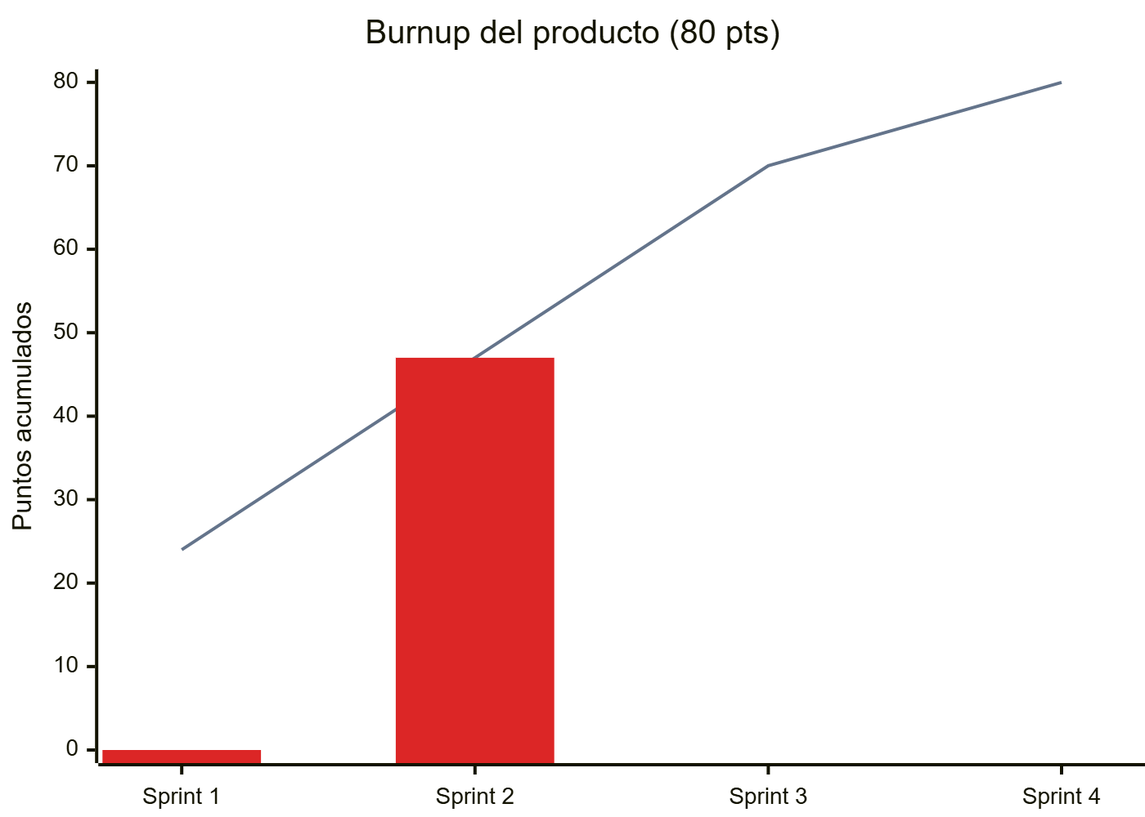
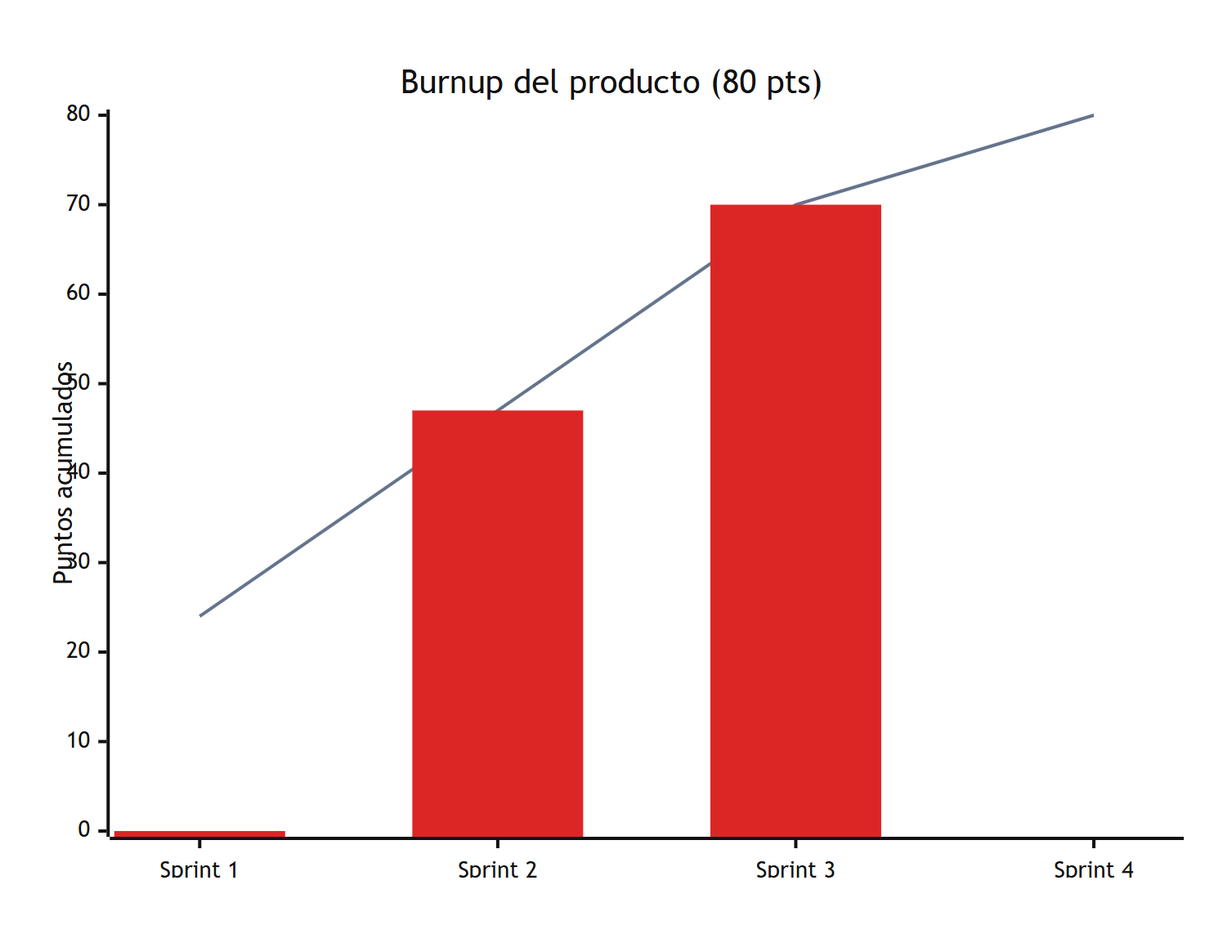
docs(scrum): cierre del Sprint 3, 23/23 pts [D-05]
Sprint review y retrospectiva (borrador) del Sprint 3, documento Scrum al
cierre, burndown del Sprint 3 y burnup con 70 pts, CHANGELOG v0.3.0 y estado
del README.

diff --git a/docs/scrum/documento-scrum.md b/docs/scrum/documento-scrum.md
@@ -1,6 +1,6 @@
 # Documentación del uso de Scrum — Abarrotes+
 
-> Sigue la estructura de la plantilla "Formato ejemplo para documentar el uso de Scrum en un proyecto" (ver `docs/07-scrum-entregables.md`). Estado al cierre del Sprint 2 (29 oct 2026). Pendiente solo la retroalimentación de la demo del 1 nov y la confirmación de la retrospectiva por el equipo.
+> Sigue la estructura de la plantilla "Formato ejemplo para documentar el uso de Scrum en un proyecto" (ver `docs/07-scrum-entregables.md`). Estado al cierre del Sprint 3 (15 nov 2026; minutas del 17 nov). Pendiente: la retroalimentación de la demo y la confirmación de la retrospectiva por el equipo.
 
 | Campo | Detalle |
 |---|---|
@@ -19,9 +19,9 @@ Este documento describe la aplicación del marco de trabajo Scrum en el desarrol
 
 ### 1.2 Alcance
 
-Abarrotes+ permite a los **cajeros** iniciar sesión, cobrar ventas (lectura de código de barras, productos a granel y pago mixto con efectivo, tarjeta o transferencia), registrar pagos a proveedores y realizar el corte y cierre de su caja; a los **administradores**, gestionar cajeros y productos de su sucursal; y al **jefe**, supervisar todas las sucursales.
+Abarrotes+ permite a los **cajeros** iniciar sesión, cobrar ventas (lectura de código de barras, productos a granel y pago mixto con efectivo, tarjeta o transferencia), registrar pagos a proveedores, registrar mermas, consultar las visitas de proveedores y realizar el corte y cierre de su caja; a los **administradores**, gestionar cajeros y productos de su sucursal, atender como cajeros con su propia caja, registrar visitas de proveedores y consultar el reporte semanal; y al **jefe**, gestionar las cuentas de administrador y supervisar todas las sucursales.
 
-El producto completo consta de 16 historias de usuario (80 puntos) distribuidas en cuatro sprints. Este documento cubre la entrega del **1 de noviembre de 2026**, que integra el Sprint 1 y el Sprint 2 (9 historias, 47 puntos). Quedan fuera de alcance la integración con básculas, terminales bancarias y la recuperación de contraseña por correo.
+El producto completo consta de 16 historias de usuario (80 puntos) distribuidas en cuatro sprints. Este documento cubre la entrega del **1 de noviembre de 2026** (`v0.2.0`), que integra el Sprint 1 y el Sprint 2 (9 historias, 47 puntos), y la del **15 de noviembre de 2026** (`v0.3.0`), del Sprint 3 (5 historias, 23 puntos). Quedan fuera de alcance la integración con básculas, terminales bancarias y la recuperación de contraseña por correo.
 
 ---
 
@@ -43,9 +43,9 @@ El equipo adopta los cinco valores de Scrum:
 
 | Persona | Rol Scrum | Responsabilidades | Dominio técnico |
 |---|---|---|---|
-| Luis David Sosa Fernández | Scrum Master + Desarrollador | Facilitar eventos, remover impedimentos, mantener artefactos (burndown, sprint backlog, documento Scrum); desarrollo | Configuración del proyecto, autenticación, cobro y pagos, cuentas de cajero, alta de productos, caja (pagos a proveedor y corte); revisa e integra todos los PR |
-| Gonzalo Mendoza Herrera | Desarrollador | Sin tareas en el Sprint 2 (baja temporal desde el 28 oct); sus historias se reasignaron | — |
-| Miguel Angel Marcelo Taracena | Desarrollador | Desarrollo de sus historias, casos de uso y prototipos | Carrito (escaneo y granel), consulta de inventario |
+| Luis David Sosa Fernández | Scrum Master + Desarrollador | Facilitar eventos, remover impedimentos, mantener artefactos (burndown, sprint backlog, tablero, documento Scrum); desarrollo | Configuración del proyecto, autenticación, cobro y pagos, cuentas de cajero y de administrador, alta de productos, caja (pagos a proveedor y corte); revisa e integra todos los PR |
+| Gonzalo Mendoza Herrera | Desarrollador | Sin tareas en el Sprint 2 (baja temporal desde el 28 oct); en el Sprint 3, una historia por disponibilidad limitada | Visitas de proveedores |
+| Miguel Angel Marcelo Taracena | Desarrollador | Desarrollo de sus historias, casos de uso y prototipos | Carrito (escaneo y granel), consulta de inventario, mermas, reporte semanal |
 | Por confirmar | Product Owner | Priorizar el backlog y aceptar las historias | — |
 
 Mientras no se confirme el Product Owner, las dudas de alcance se resuelven con lo acordado en el Planning Poker. Carlos Vicente López Rosales y otro integrante formaron parte del equipo inicial y abandonaron el proyecto; no tienen trabajo asignado.
@@ -69,11 +69,11 @@ Mientras no se confirme el Product Owner, las dudas de alcance se resuelven con 
 | 7 | HU-12 | Gestión de cuentas de cajero | Medio | 5 | 2 | Sosa |
 | 8 | HU-04 | Revisar el inventario | Medio | 2 | 2 | Miguel |
 | 9 | HU-08 | Agregar productos | Medio | 5 | 2 | Sosa (reasignada 26 oct) |
-| 10 | HU-10 | Registro de producto caducado/dañado | Medio | 3 | 3 | — |
-| 11 | HU-11 | Operaciones de cajero (admin) | Medio | 2 | 3 | — |
-| 12 | HU-15 | Gestión de cuentas de administrador | Medio | 3 | 3 | — |
-| 13 | HU-07 | Saber visitas de proveedores | Bajo | 2 | 3 | — |
-| 14 | HU-13 | Reporte semanal por sucursal | Medio | 13 | 3 | — |
+| 10 | HU-10 | Registro de producto caducado/dañado | Medio | 3 | 3 | Miguel |
+| 11 | HU-11 | Operaciones de cajero (admin) | Medio | 2 | 3 | Sosa |
+| 12 | HU-15 | Gestión de cuentas de administrador | Medio | 3 | 3 | Sosa |
+| 13 | HU-07 | Saber visitas de proveedores | Bajo | 2 | 3 | Gonzalo |
+| 14 | HU-13 | Reporte semanal por sucursal | Medio | 13 | 3 | Miguel |
 | 15 | HU-14 | Operaciones de administrador (jefe) | Bajo | 2 | 4 | — |
 | 16 | HU-16 | Gestión de sucursales | Bajo | 8 | 4 | — |
 
@@ -106,7 +106,29 @@ Estados: ⬜ Por hacer · 🟨 En progreso · 🟦 En revisión (PR abierto) · 
 
 **Total comprometido:** 47 pts · **Completado:** 47 pts al 28 de octubre (9 de 9 HU). Sprint cerrado.
 
-> Nota: estados al cierre (28 oct); la fuente viva es `docs/scrum/sprint-2-backlog.md`. Sincronizar antes de la versión final.
+> Nota: estados al cierre (28 oct); la fuente es `docs/scrum/sprint-2-backlog.md`.
+
+#### Sprint 3
+
+Meta: que el administrador controle mermas, cubra la caja y vea el reporte semanal. Desde este sprint el estado se lleva en el [tablero de GitHub Projects](https://github.com/users/notNorthStar/projects/1/views/2): un issue por historia y por tarea, asignado a su responsable. `docs/scrum/sprint-backlog.md` guarda el PR y la fecha de cada tarea para el burndown.
+
+| ID | Tarea | HU | Pts | Responsable | Estado | PR |
+|---|---|---|---|---|---|---|
+| T-15 | Verificar y ajustar operaciones de cajero para el administrador | HU-11 | 2 | Sosa | ✅ | #53 |
+| T-16 | Pruebas: el administrador abre su caja y el corte queda por persona | HU-11 | | Sosa | ✅ | #53 |
+| T-17 | API de cuentas de administrador para el jefe (reutiliza HU-12) | HU-15 | 3 | Sosa | ✅ | #54 |
+| T-18 | Pantalla de cuentas de administrador | HU-15 | | Sosa | ✅ | #54 |
+| T-19 | API de merma: motivo obligatorio, descuento de inventario y movimiento + pruebas | HU-10 | 3 | Miguel | ✅ | #50 |
+| T-20 | Pantalla para registrar producto caducado o dañado | HU-10 | | Miguel | ✅ | #50 |
+| T-21 | API de visitas de proveedores + pruebas | HU-07 | 2 | Gonzalo | ✅ | #56 |
+| T-22 | Pantalla de visitas: lista por fecha y proveedor, y formulario del admin | HU-07 | | Gonzalo | ✅ | #56 |
+| T-23 | API del reporte semanal por sucursal + pruebas | HU-13 | 13 | Miguel | ✅ | #51 |
+| T-24 | Pantalla del reporte en tabla | HU-13 | | Miguel | ✅ | #51 |
+| T-25 | Exportar el reporte a PDF | HU-13 | | Miguel | ✅ | #51 |
+| D-04 | Casos de uso y capturas de las pantallas nuevas | Doc | — | Sosa | ✅ | #55, #57 |
+| D-05 | Minutas, burndown y documento Scrum del Sprint 3 | Doc | — | Sosa | ✅ | #52 y cierre |
+
+**Total comprometido:** 23 pts · **Completado:** 23 pts el 9 de noviembre (5 de 5 HU): Miguel 16, Sosa 5, Gonzalo 2.
 
 ### 4.3 Diagrama de clases
 
@@ -122,11 +144,15 @@ Actores cajero, administrador y jefe, con herencia de permisos (el jefe hereda d
 
 ![Diagrama de casos de uso](../diagramas/img/casos-de-uso.png)
 
+Casos de uso del Sprint 3 (CU-07, CU-10, CU-11, CU-13 y CU-15). Fuente: `docs/diagramas/casos-de-uso-sprint-3.md` (Luis David Sosa Fernández, D-04).
+
+![Diagrama de casos de uso del Sprint 3](../diagramas/img/casos-de-uso-sprint-3.png)
+
 ### 4.5 Descripciones de casos de uso con prototipos
 
-Las nueve descripciones (objetivo, precondiciones, flujo principal, alternos, postcondiciones y trazabilidad a los criterios de aceptación) están en `docs/diagramas/casos-de-uso.md`. Las capturas de las pantallas de granel e inventario están en `docs/evidencias/miguel/`.
+Las nueve descripciones de los Sprints 1 y 2 (objetivo, precondiciones, flujo principal, alternos, postcondiciones y trazabilidad a los criterios de aceptación) están en `docs/diagramas/casos-de-uso.md`. Las capturas de las pantallas de granel e inventario están en `docs/evidencias/miguel/`. Las cinco del Sprint 3 están en `docs/diagramas/casos-de-uso-sprint-3.md`.
 
-Cada caso enlaza su pantalla (P-01–P-07) en la tabla de evidencia visual de `docs/diagramas/casos-de-uso.md`; las capturas están en la sección 4.6.
+Cada caso enlaza su pantalla (P-01–P-11) en la tabla de evidencia visual de su documento; las capturas están en la sección 4.6.
 
 ### 4.6 Prototipos principales
 
@@ -148,6 +174,16 @@ Capturas de las pantallas reales usadas como prototipos iterados (D-02, Miguel; 
 
 ![Inicio de sesión](../prototipos/img/login.png)
 
+Pantallas nuevas del Sprint 3 (D-04, capturadas el 9 nov):
+
+![Registrar merma](../prototipos/img/merma.png)
+
+![Reporte semanal](../prototipos/img/reporte.png)
+
+![Cuentas de administrador](../prototipos/img/administradores.png)
+
+![Visitas de proveedores](../prototipos/img/proveedores.png)
+
 ### 4.7 Prototipos de alertas
 
 ![Producto no encontrado](../prototipos/img/alerta-producto-no-encontrado.png)
@@ -158,6 +194,8 @@ Capturas de las pantallas reales usadas como prototipos iterados (D-02, Miguel; 
 
 ![Cuenta suspendida](../prototipos/img/alerta-usuario-suspendido.png)
 
+![Merma mayor que la existencia](../prototipos/img/alerta-merma-sin-existencia.png)
+
 ### 4.8 Sprint
 
 Los sprints duran **2 semanas**. El calendario del proyecto es:
@@ -165,25 +203,33 @@ Los sprints duran **2 semanas**. El calendario del proyecto es:
 | Sprint | Fechas | Meta | Pts planeados | Resultado |
 |---|---|---|---|---|
 | 1 | 5 – 18 oct 2026 | Que un cajero pueda iniciar sesión y cobrar una venta completa | 24 | No entregado (velocidad real 0) por la salida de 2 integrantes |
-| 2 | 19 oct – 1 nov 2026 | Re-planeado: entregar Sprint 1 + Sprint 2 (9 HU) | 47 | En curso |
-| 3 | 2 – 15 nov 2026 | — | 23 | Por planear |
+| 2 | 19 oct – 1 nov 2026 | Re-planeado: entregar Sprint 1 + Sprint 2 (9 HU) | 47 | Entregado: 47 de 47 pts (`v0.2.0`) |
+| 3 | 2 – 15 nov 2026 | Que el administrador controle mermas, cubra la caja y vea el reporte semanal | 23 | Entregado: 23 de 23 pts (`v0.3.0`) |
 | 4 | 16 – 29 nov 2026 | — | 10 | Por planear |
 
 ### 4.9 Incremento
 
-Versión `v0.2.0`. Incremento funcional y demostrable: un cajero inicia sesión, abre su caja, registra ventas por código de barras y a granel, cobra con pago mixto y cambio, registra pagos a proveedor y cierra su caja con corte y diferencia; el administrador gestiona cajeros, alta de productos e inventario. Interfaz con el sistema visual "Mostrador". 9 de 9 HU (47 pts), 130 pruebas automatizadas. Detalle en la Sprint Review (`docs/scrum/reuniones.md`).
+**Versión `v0.2.0` (Sprints 1 y 2).** Incremento funcional y demostrable: un cajero inicia sesión, abre su caja, registra ventas por código de barras y a granel, cobra con pago mixto y cambio, registra pagos a proveedor y cierra su caja con corte y diferencia; el administrador gestiona cajeros, alta de productos e inventario. Interfaz con el sistema visual "Mostrador". 9 de 9 HU (47 pts), 130 pruebas automatizadas.
+
+**Versión `v0.3.0` (Sprint 3).** Se agregan: registro de mermas (caducado o dañado) que descuenta inventario sin afectar la caja; el administrador atiende como cajero con su propia caja y corte; reporte semanal por sucursal con ingresos, pagos, altas y mermas, cada uno con su responsable, exportable a PDF; visitas de proveedores que registra el administrador y consulta el cajero; y gestión de cuentas de administrador por el jefe. 5 de 5 HU (23 pts), 194 pruebas automatizadas. Detalle en las Sprint Reviews (`docs/scrum/reuniones.md`).
 
 ### 4.10 Burn Up
 
-La gráfica de burnup del producto (puntos acumulados completados contra el plan de 80 puntos: 24 / 47 / 70 / 80) se mantiene en `docs/scrum/burndown.md`, sección "Gráficas". Al cierre del Sprint 1 el real acumulado es 0.
+La gráfica de burnup del producto (puntos acumulados completados contra el plan de 80 puntos: 24 / 47 / 70 / 80) se mantiene en `docs/scrum/burndown.md`, sección "Gráficas". Real acumulado: 0 al cierre del Sprint 1, 47 al del Sprint 2 y 70 al del Sprint 3, igual al plan.
 
 ![Burnup del producto](../diagramas/img/burnup.png)
 
 ### 4.11 Burn Down
 
-La gráfica de burndown del Sprint 2 (puntos restantes por día contra la línea ideal de 47 a 0) se mantiene en `docs/scrum/burndown.md`, sección "Gráficas", y se actualiza diariamente. El burndown se mantuvo plano hasta el día 7 (47 pts) y bajó a 0 el día 10 (28 oct), cuatro días antes del fin del sprint: 26 pts el 26 oct (HU-01, HU-06, HU-12, HU-08) y los 21 restantes el 28 oct (HU-03, HU-04, HU-02, HU-09, HU-05).
+Las gráficas de burndown (puntos restantes por día contra la línea ideal) se mantienen en `docs/scrum/burndown.md`, sección "Gráficas".
+
+**Sprint 2.** El burndown se mantuvo plano hasta el día 7 (47 pts) y bajó a 0 el día 10 (28 oct), cuatro días antes del fin del sprint: 26 pts el 26 oct (HU-01, HU-06, HU-12, HU-08) y los 21 restantes el 28 oct (HU-03, HU-04, HU-02, HU-09, HU-05).
 
 ![Burndown Sprint 2](../diagramas/img/burndown.png)
+
+**Sprint 3.** El burndown volvió a quedar plano siete días (23 pts) y bajó a 0 el día 8 (9 nov), cuando se integraron las cinco historias: HU-10 y HU-13 de Miguel, HU-11 y HU-15 de Sosa, y HU-07 de Gonzalo.
+
+![Burndown Sprint 3](../diagramas/img/burndown-sprint-3.png)
 
 ### 4.12 Reunión de inicio de sprint
 
@@ -197,15 +243,28 @@ El **21 de octubre de 2026** se realizó la reunión de re-planeación e inicio 
 - **Riesgos:** dependencia HU-06 → HU-05, poco tiempo y aprendizaje del stack.
 - **Pendientes:** confirmar Product Owner, confirmar el reparto y activar la protección de ramas.
 
+El **4 de noviembre de 2026** se planeó el Sprint 3 (minuta en `docs/scrum/reuniones.md`):
+
+- **Meta:** que el administrador controle mermas, cubra la caja y vea el reporte semanal. **Compromiso:** 5 historias, 23 puntos.
+- **Reparto:** Miguel 16 pts (HU-10 y HU-13, que dependen entre sí); Sosa 5 pts (HU-11 y HU-15) más revisión e integración; Gonzalo 2 pts (HU-07), por su disponibilidad limitada.
+- **Puntos de control:** si no había PR de HU-07 el 10 nov pasaba a Sosa; si la API de HU-13 no estaba lista el 11 nov, Sosa tomaba el PDF. No hizo falta activar ninguno.
+- **Seguimiento:** desde el 4 nov el estado se lleva en un tablero de GitHub Projects con un issue por historia y tarea.
+
 ### 4.13 Reunión técnica diaria
 
-Formato de daily asíncrono en `docs/scrum/dailies/_plantilla.md` (prompt `docs/prompts/daily.md`). Registrados en el repositorio: 21 oct 2026; en Drive: 12 y 20 oct. El seguimiento diario se apoyó además en la actividad de GitHub (ramas, PRs y revisiones). Se reconoce como área de mejora en la retrospectiva.
+Formato de daily asíncrono en `docs/scrum/dailies/_plantilla.md` (prompt `docs/prompts/daily.md`). Registrados en el repositorio: 21 oct 2026; en Drive: 12 y 20 oct. En el Sprint 3 no se registraron dailies; el seguimiento se apoyó en el tablero y en la actividad de GitHub (ramas, PRs y revisiones). Se reconoce como área de mejora en las dos retrospectivas.
 
 ### 4.14 Cierre de sprint
 
+**Sprint 2**
 - **Sprint Review:** 9 de 9 HU entregadas (47 pts), cada una con PR revisado e integrado; demo formal el 1 nov.
 - **Retrospectiva:** bien — recuperación total del Sprint 1, trabajo por dominio sin conflictos, harness de IA y revisión centralizada; mejorar — detección tardía de la salida de integrantes, dailies irregulares y concentración de carga; acciones para el Sprint 3.
-- Minuta completa: `docs/scrum/reuniones.md`.
+
+**Sprint 3**
+- **Sprint Review:** 5 de 5 HU entregadas (23 pts), integradas el 9 nov; los tres integrantes entregaron código propio con PR revisado.
+- **Retrospectiva:** bien — compromiso completo seis días antes, Miguel adelantó el PDF, tablero visible para todos y 194 pruebas; mejorar — avance invisible hasta el día 8, sin dailies, tarjetas que no movían sus responsables, un PR contra `main` y cierre formal dos días tarde; acciones para el Sprint 4.
+
+Minutas completas: `docs/scrum/reuniones.md`.
 
 ---
 
@@ -215,6 +274,8 @@ El equipo entregó en el Sprint 2 la totalidad del compromiso de los Sprints 1 y
 
 El uso de inteligencia artificial con reglas compartidas (`AGENTS.md`) aceleró el desarrollo sin perder control: cada cambio pasó por criterios de aceptación, pruebas automatizadas y revisión antes de integrarse.
 
-Para el Sprint 3 el equipo se compromete a sostener el daily, confirmar al Product Owner y planear con base en la velocidad real observada.
+En el Sprint 3 el equipo cumplió de nuevo el compromiso completo (5 historias, 23 puntos) y, por primera vez, los tres integrantes entregaron código propio. Con eso el producto suma 70 de 80 puntos, igual al plan. La lección del sprint es que el avance llegó todo junto el día 8: el equipo terminó a tiempo, pero el burndown no permitió ver el progreso mientras ocurría.
+
+Para el Sprint 4 el equipo se compromete a subir avance cada dos días, registrar el daily, mover sus tarjetas en el tablero y cerrar el sprint en su fecha.
 
 > Pendiente de confirmar por el equipo antes de la entrega.

diff --git a/docs/scrum/reuniones.md b/docs/scrum/reuniones.md
@@ -208,6 +208,85 @@ Recorrido completo en la app (capturas en `docs/prototipos/img/`):
 
 ### Pendientes
 
-- [ ] Confirmar el reparto con Miguel y Gonzalo.
+- [x] Confirmar el reparto con Miguel y Gonzalo: cada quien entregó las historias asignadas.
 - [ ] Confirmar al Product Owner.
-- [ ] Decidir con el PO: merma mayor que la existencia (HU-10) y semana de lunes a domingo (HU-13).
+- [x] Decidir con el PO: una merma mayor que la existencia se rechaza (9 nov). La semana de lunes a domingo se aplicó como estaba en el backlog.
+
+---
+
+## Sprint Review — cierre del Sprint 3
+
+> Minuta preparada por el Scrum Master el 17 nov 2026 con el incremento terminado. **Confirmar asistentes y retroalimentación de la demo.**
+
+| Campo | Detalle |
+|---|---|
+| Fecha | Cierre del sprint: 15 nov 2026 · minuta: 17 nov 2026 |
+| Asistentes | Luis David Sosa Fernández (SM + dev) · Miguel Angel Marcelo Taracena (dev) · Gonzalo Mendoza Herrera (dev) · Product Owner: por confirmar |
+| Meta | Que el administrador controle mermas, cubra la caja y vea el reporte semanal |
+| Compromiso | 5 HU · 23 pts |
+| Entregado | **5 HU · 23 pts (100 %)**, todo integrado el 9 nov (día 8 de 14) |
+
+### HU entregadas
+
+| HU | Nombre | Pts | Responsable | PR | ¿Cumple DoD? |
+|---|---|---|---|---|---|
+| HU-10 | Registro de producto caducado/dañado | 3 | Miguel | #50 | Sí |
+| HU-13 | Reporte semanal por sucursal (con PDF) | 13 | Miguel | #51 | Sí |
+| HU-11 | Operaciones de cajero para el administrador | 2 | Sosa | #53 | Sí |
+| HU-15 | Gestión de cuentas de administrador | 3 | Sosa | #54 | Sí |
+| HU-07 | Saber visitas de proveedores | 2 | Gonzalo | #56 | Sí |
+
+Documentación: casos de uso y capturas del sprint (D-04, #55 y #57); sprint backlog y burndown al día (D-05, #52). DoD verificada en cada PR: criterios de aceptación cubiertos, pruebas automatizadas (31 web + 163 API al cierre, 64 más que en el Sprint 2), lint, tipos y build correctos, PR revisado y aprobado por el Scrum Master e integrado a `develop`.
+
+### Incremento demostrado
+
+Recorrido en la app con los datos de ejemplo (capturas en `docs/prototipos/img/`):
+1. `cajero1` registra 2 piezas de Coca-Cola 600 ml como caducadas: la existencia baja y su caja no cambia. Una merma mayor que la existencia se rechaza.
+2. `admin.centro` abre su propia caja, vende y cobra; su corte solo incluye sus operaciones, aunque un cajero tenga otra caja abierta.
+3. `admin.centro` consulta el reporte semanal: ingresos por forma de pago, ventas, pagos a proveedor, altas y mermas con su responsable, y lo exporta a PDF.
+4. `admin.centro` registra una visita de proveedor; `cajero1` la ve en la lista y `cajero.norte`, de otra sucursal, no.
+5. `jefe` elige una sucursal y crea, suspende, reactiva y elimina cuentas de administrador; un administrador suspendido no puede entrar.
+
+### Retroalimentación
+
+- [Completar después de la demo: observaciones de la maestra / PO.]
+- Pregunta abierta al cliente (9 nov): si los cambios de otros usuarios deben verse en tiempo real. Hoy cada pantalla los muestra al recargar sus datos. Si lo pide, entra como historia nueva al backlog.
+
+---
+
+## Retrospectiva — Sprint 3
+
+> **Borrador** redactado por el Scrum Master a partir de los hechos del sprint. El equipo debe revisarlo y agregar su opinión antes de la entrega.
+
+| Campo | Detalle |
+|---|---|
+| Fecha | 17 nov 2026 (borrador) |
+| Asistentes | [Confirmar] |
+
+### ¿Qué salió bien?
+
+- Se cumplió el 100 % del compromiso (23 de 23 pts) seis días antes del fin del sprint.
+- Los tres integrantes entregaron código propio con PR revisado: Miguel completó sus 16 pts e hizo también la exportación a PDF, que estaba prevista como respaldo de Sosa; Gonzalo entregó HU-07, su primera historia integrada.
+- El tablero de GitHub Projects hizo visible el estado de cada historia y tarea para todo el equipo y para la maestra.
+- La calidad se sostuvo: 194 pruebas automatizadas y ningún PR integrado rompió `develop`.
+- Las decisiones de alcance (merma mayor que la existencia, semana de lunes a domingo) se resolvieron y quedaron anotadas en los PRs.
+
+### ¿Qué mejorar?
+
+- El burndown estuvo plano siete días: no hubo nada en GitHub hasta el día 8, cuando se integró todo. El avance real no fue visible a tiempo.
+- No se registraron dailies del Sprint 3, aunque era una acción acordada en la retrospectiva anterior.
+- Nadie movió sus tarjetas a *En progreso* ni a *En revisión*; el tablero solo cambiaba cuando el Scrum Master integraba.
+- El PR de HU-07 se abrió contra `main` en lugar de `develop`, y un `git pull` después del rebase duplicó sus commits.
+- El cierre formal (review, retro y tag) se hizo el 17 nov, dos días después de la fecha.
+- El Product Owner sigue sin confirmarse.
+
+### Acciones
+
+| Acción | Responsable | Para cuándo |
+|---|---|---|
+| Subir avance a una rama al menos cada dos días, aunque esté a medias | Todos | Sprint 4 |
+| Daily asíncrono registrado en `docs/scrum/dailies/` | Todos (lo revisa el SM) | Sprint 4 |
+| Mover las tarjetas del tablero al empezar y al abrir el PR | Todos | Sprint 4 |
+| Revisar antes de abrir un PR que la base sea `develop` y subir con `--force-with-lease` después de un rebase | Gonzalo y Miguel | Sprint 4 |
+| Cerrar el Sprint 4 en su fecha (29 nov) | Scrum Master | Fin del Sprint 4 |
+| Confirmar el Product Owner con la maestra | Scrum Master | Inicio del Sprint 4 |

diff --git a/docs/scrum/burndown.md b/docs/scrum/burndown.md
@@ -48,14 +48,28 @@ Actualizar cada día con los puntos de HU **completamente hechas** (DoD) al cier
 |---|---|---|---|
 | 1 | 18 oct | 24 | 0 |
 | 2 | 1 nov | 47 | 47 |
-| 3 | 15 nov | 70 | |
+| 3 | 15 nov | 70 | 70 |
 | 4 | 29 nov | 80 | |
 
 Para la gráfica: pedir a la IA `genera la gráfica de burndown/burnup como Mermaid xychart desde docs/scrum/burndown.md` o pasar la tabla a Sheets.
 
 ## Gráficas
 
-Actualizar las series "real" al llenar las tablas de arriba. Imágenes exportadas: [`burndown.png`](../diagramas/img/burndown.png), [`burnup.png`](../diagramas/img/burnup.png).
+Actualizar las series "real" al llenar las tablas de arriba. Imágenes exportadas: [`burndown-sprint-3.png`](../diagramas/img/burndown-sprint-3.png), [`burndown.png`](../diagramas/img/burndown.png) (Sprint 2), [`burnup.png`](../diagramas/img/burnup.png).
+
+### Burndown Sprint 3 (cerrado el 9 nov)
+
+Línea gris: ideal (23 → 0). Línea roja: real restante (días 1–8).
+
+```mermaid
+%%{init: {"themeVariables": {"xyChart": {"plotColorPalette": "#64748b, #dc2626"}}}}%%
+xychart-beta
+    title "Burndown Sprint 3 (23 pts)"
+    x-axis ["2 nov", "3 nov", "4 nov", "5 nov", "6 nov", "7 nov", "8 nov", "9 nov", "10 nov", "11 nov", "12 nov", "13 nov", "14 nov", "15 nov"]
+    y-axis "Puntos restantes" 0 --> 25
+    line [23.0, 21.2, 19.5, 17.7, 15.9, 14.2, 12.4, 10.6, 8.8, 7.1, 5.3, 3.5, 1.8, 0.0]
+    line [23, 23, 23, 23, 23, 23, 23, 0]
+```
 
 ### Burndown Sprint 2 (cerrado el 28 oct)
 
@@ -73,7 +87,7 @@ xychart-beta
 
 ### Burnup del producto (80 pts)
 
-Línea gris: plan acumulado. Barras rojas: real acumulado (Sprint 1 = 0; Sprint 2 = 47, completo).
+Línea gris: plan acumulado. Barras rojas: real acumulado (Sprint 1 = 0; Sprint 2 = 47 y Sprint 3 = 70, completos).
 
 ```mermaid
 %%{init: {"themeVariables": {"xyChart": {"plotColorPalette": "#64748b, #dc2626"}}}}%%
@@ -82,5 +96,5 @@ xychart-beta
     x-axis ["Sprint 1", "Sprint 2", "Sprint 3", "Sprint 4"]
     y-axis "Puntos acumulados" 0 --> 80
     line [24, 47, 70, 80]
-    bar [0, 47]
+    bar [0, 47, 70]
 ```

diff --git a/CHANGELOG.md b/CHANGELOG.md
@@ -1,5 +1,25 @@
 # Changelog
 
+## v0.3.0 — Cierre del Sprint 3 · 15 nov 2026
+
+5 historias, 23 puntos, integradas el 9 de noviembre. Producto acumulado: 70 de 80 puntos.
+
+### Historias de usuario
+- **HU-10** Registro de producto caducado o dañado: motivo obligatorio, descuento de existencias sin afectar la caja y rechazo si la cantidad supera la existencia. (#50, Miguel)
+- **HU-13** Reporte semanal por sucursal (lunes a domingo): ingresos por forma de pago con efectivo neto de cambio, ventas, pagos a proveedor, productos agregados y mermas con su responsable; exportación a PDF. (#51, Miguel)
+- **HU-11** El administrador opera como cajero con su propia caja; el corte queda por persona. (#53, Sosa)
+- **HU-15** El jefe gestiona cuentas de administrador por sucursal: crear, suspender, reactivar, restablecer contraseña y eliminar (lógico). (#54, Sosa)
+- **HU-07** Visitas de proveedores: el administrador las registra y el cajero las consulta por fecha y proveedor. (#56, Gonzalo)
+
+### Dependencias
+- `pdfkit` 0.17.2 para el PDF del reporte semanal.
+
+### Documentación Scrum
+- Tablero en GitHub Projects con un issue por historia y tarea; casos de uso y capturas del Sprint 3 (#55, #57); sprint backlog, burndown y burnup; review, retrospectiva y documento Scrum del Sprint 3.
+
+### Calidad
+- 194 pruebas automatizadas (31 web + 163 API), lint, tipos y build correctos en cada PR.
+
 ## v0.2.0 — Cierre del Sprint 2 (Sprint 1 + Sprint 2) · 29 oct 2026
 
 Entrega: domingo 1 de noviembre de 2026. 9 historias, 47 puntos.

diff --git a/docs/scrum/sprint-backlog.md b/docs/scrum/sprint-backlog.md
@@ -19,6 +19,6 @@ Estados: ⬜ Por hacer · 🟨 En progreso · 🟦 En revisión (PR abierto) · 
 | T-24 | Pantalla del reporte en tabla | HU-13 | | Miguel | ✅ | #51 | 9 nov |
 | T-25 | Exportar el reporte a PDF | HU-13 | | Miguel | ✅ | #51 | 9 nov |
 | D-04 | Casos de uso y capturas de las pantallas nuevas | Doc | — | Sosa | ✅ | #55 | 9 nov |
-| D-05 | Minutas, burndown, dailies y documento Scrum del Sprint 3 | Doc | — | Sosa | 🟨 | #52 | Burndown al día; cierre el 15 nov |
+| D-05 | Minutas, burndown, dailies y documento Scrum del Sprint 3 | Doc | — | Sosa | ✅ | #52 y cierre | 17 nov (retro en borrador) |
 
-**Total comprometido:** 23 pts · **Completado:** 23 pts (Miguel 16 · Sosa 5 · Gonzalo 2) · **Restante:** 0 pts. Falta D-05 (cierre del sprint el 15 nov).
+**Total comprometido:** 23 pts · **Completado:** 23 pts (Miguel 16 · Sosa 5 · Gonzalo 2) · **Restante:** 0 pts. Sprint cerrado.

diff --git a/README.md b/README.md
@@ -2,7 +2,7 @@
 
 Sistema de punto de venta multisucursal para tiendas de abarrotes. Proyecto en Scrum de **Luis David Sosa Fernández, Gonzalo Mendoza Herrera y Miguel Angel Marcelo Taracena**.
 
-> 🚧 **Sprint 3 en curso** (2 al 15 nov): 5 HU, 23 pts. Ver [plan](docs/03-plan-entrega.md) y [tablero](https://github.com/users/notNorthStar/projects/1/views/2). Sprint 1 + 2 entregados en `v0.2.0`.
+> ✅ **Sprint 3 entregado** en `v0.3.0` (23 de 23 pts); Sprint 1 + 2 en `v0.2.0`. Producto: 70 de 80 pts. Sprint 4 (16 al 29 nov): por planear. Ver [tablero](https://github.com/users/notNorthStar/projects/1/views/2).
 
 ## Para el equipo: cómo empezar (5 min)
 
